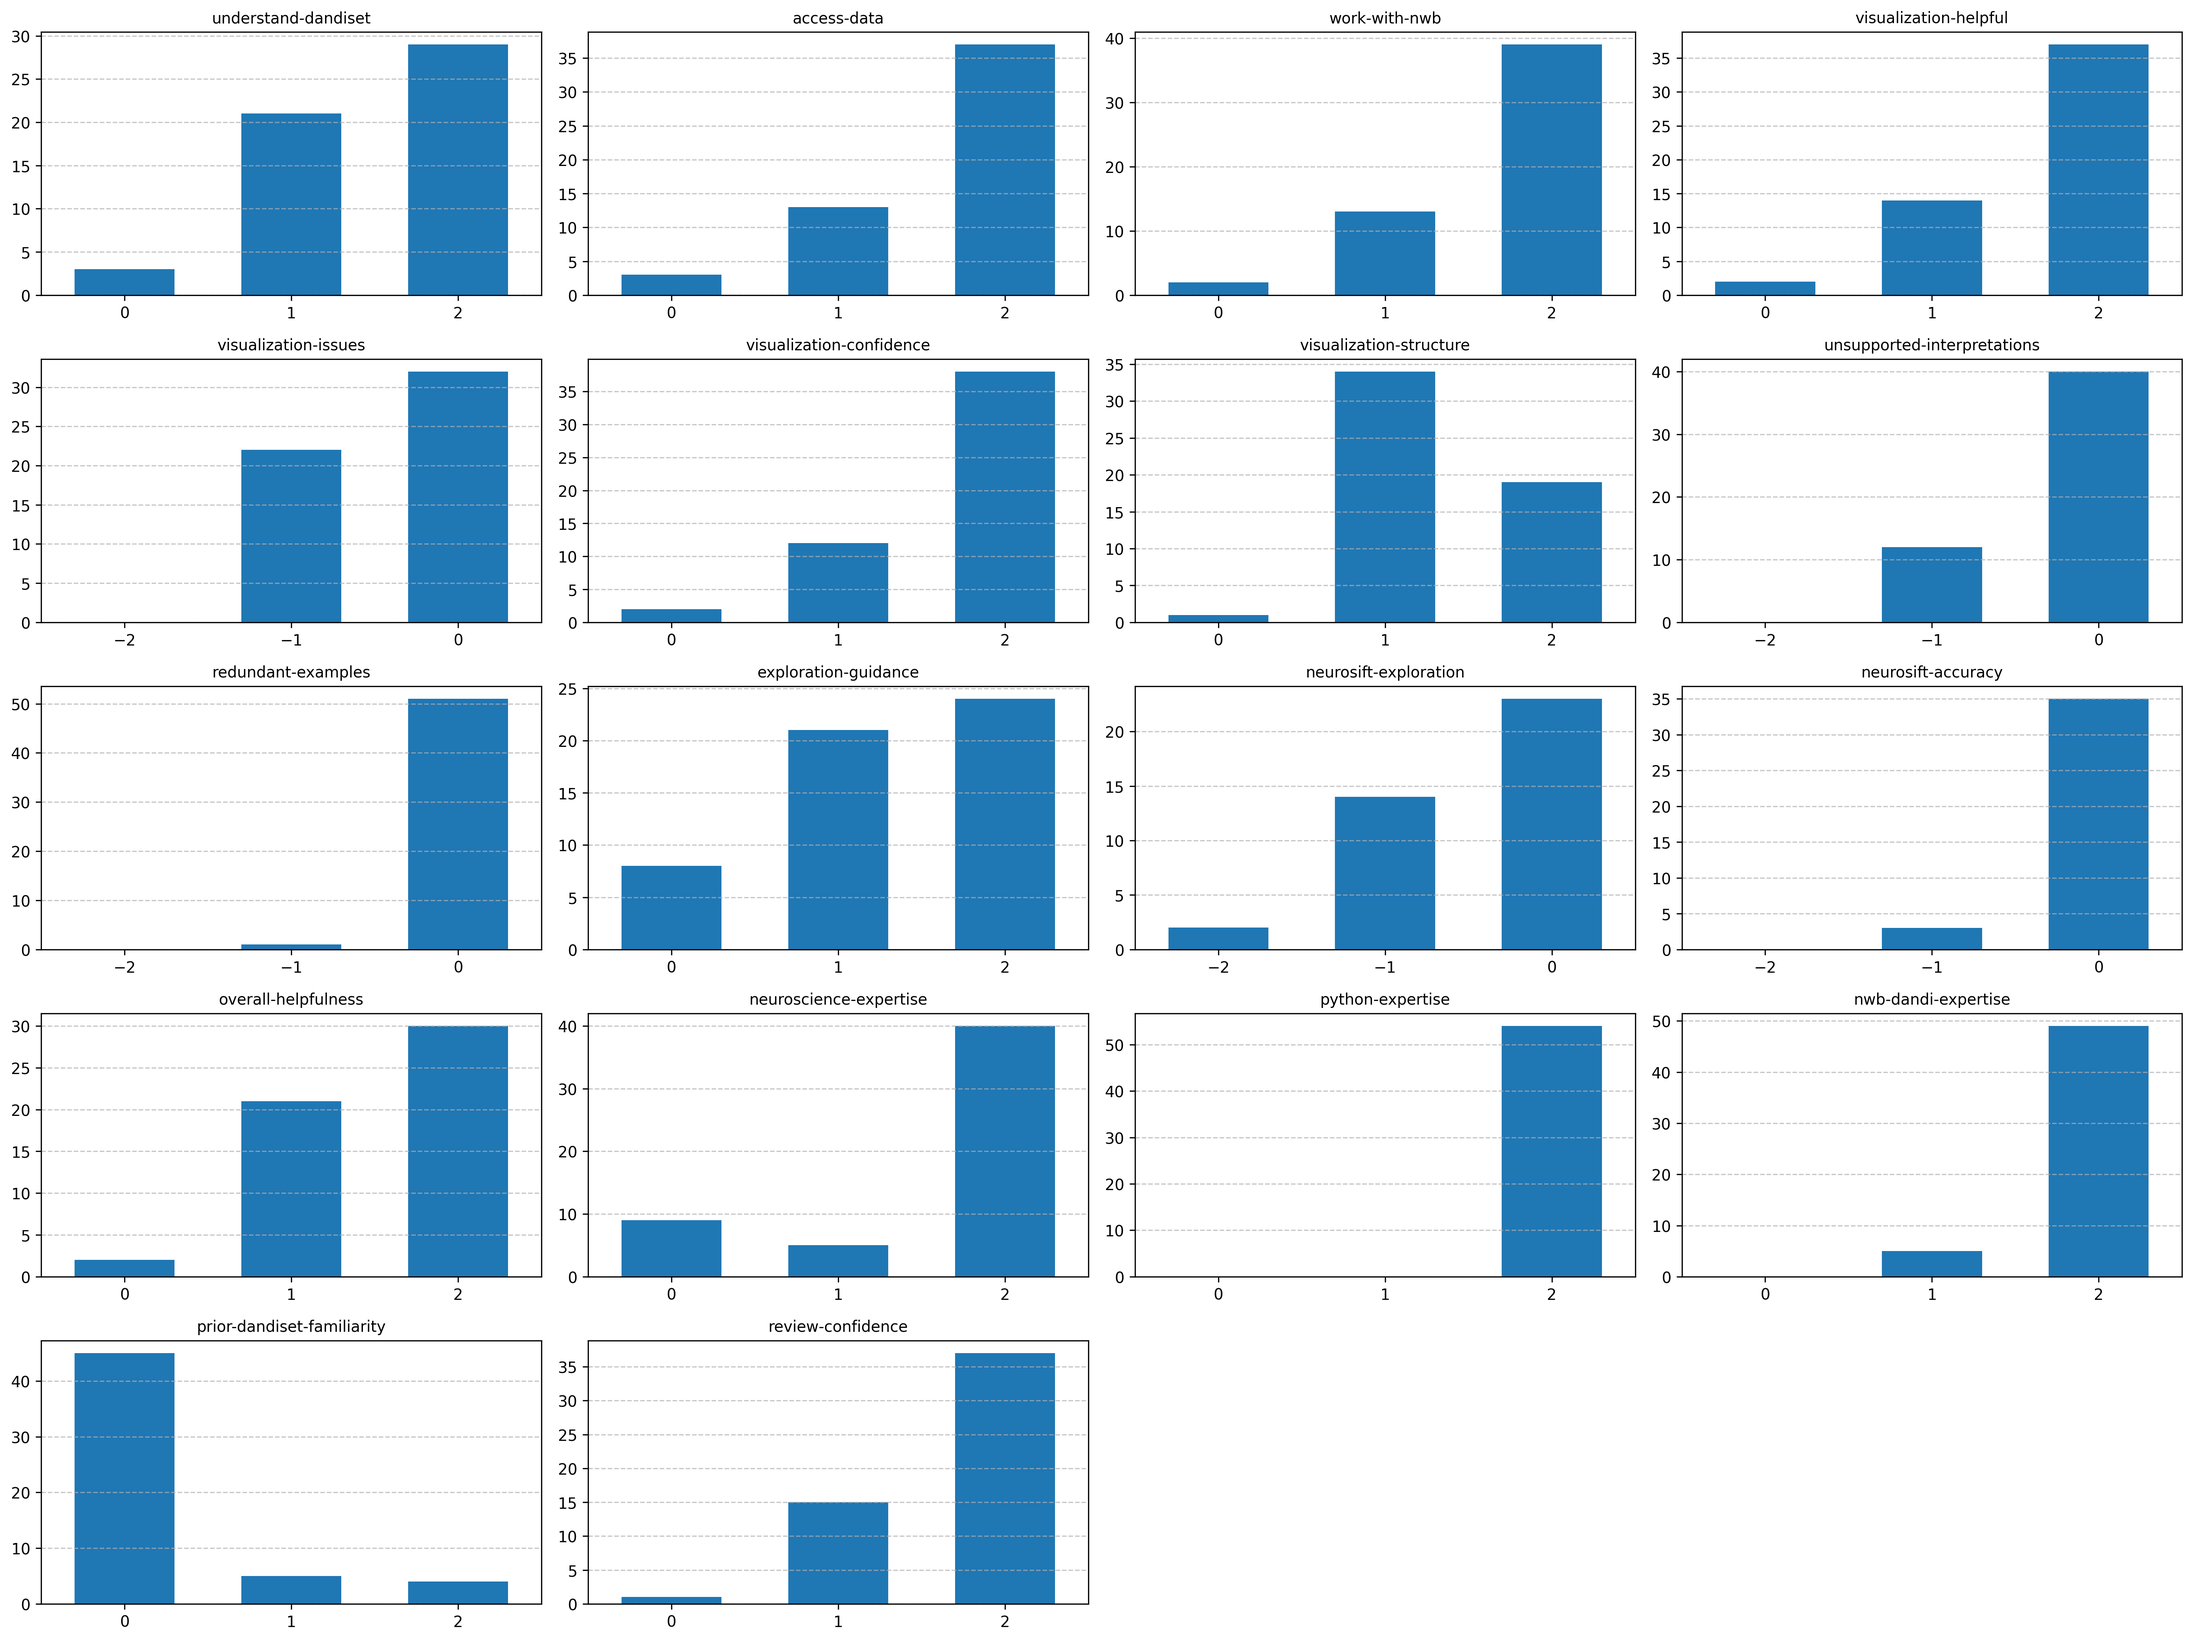
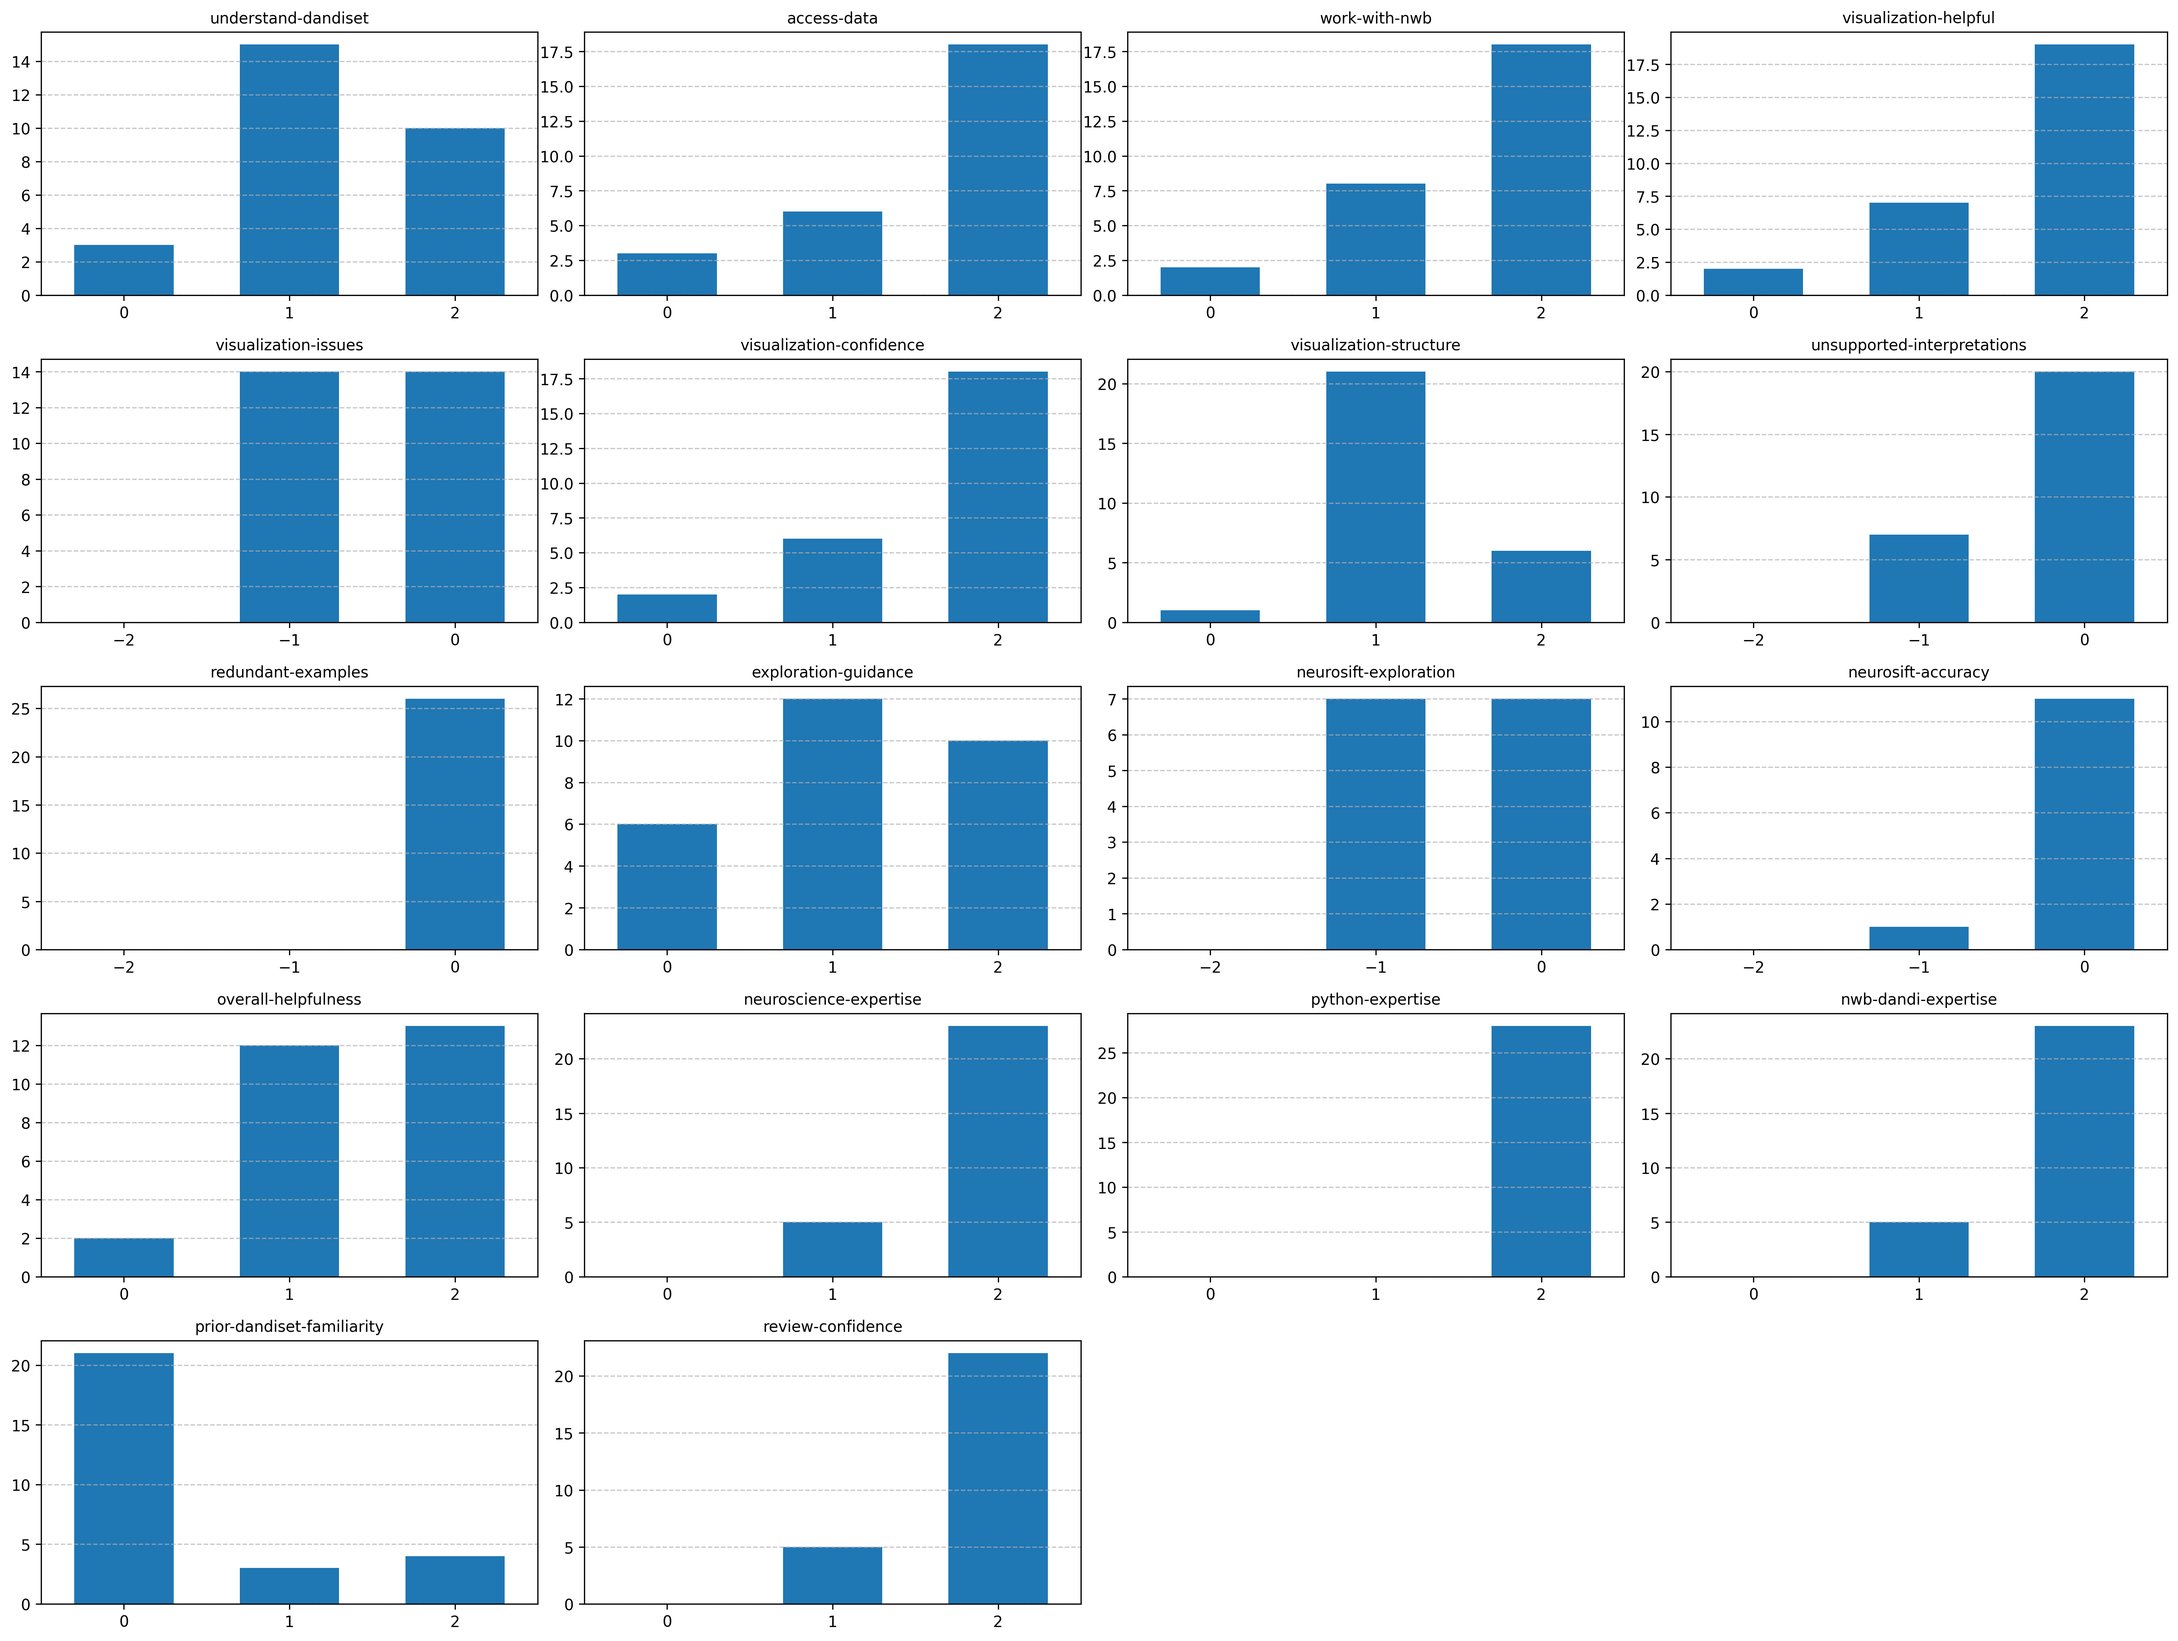
update reviews

diff --git a/scripts/convert_reviews_to_csv.py b/scripts/convert_reviews_to_csv.py
@@ -14,6 +14,11 @@ def extract_dandiset_id(notebook_uri):
         return match.group(1).zfill(6)
     return None
 
+def _is_author_email(email):
+    x = ['jmagland@', 'oruebel@', 'rly@', 'ben.dichter@']
+    # Check if the email belongs to the author
+    return any(email.startswith(prefix) for prefix in x)
+
 def main():
     # Read the JSON file
     with open('reviews-export-2025-07-02.json', 'r') as f:
@@ -26,7 +31,7 @@ def main():
     processed_reviews = []
     for review in reviews:
         if (review['review']['status'] == 'completed' and
-            review['reviewer_email'] != 'jmagland@flatironinstitute.org'):
+            not _is_author_email(review['reviewer_email'])):
             # Extract responses
             responses_dict = {}
             for response in review['review']['responses']:

diff --git a/scripts/review_hists.py b/scripts/review_hists.py
@@ -31,13 +31,18 @@ for idx, col in enumerate(valid_ordered_cols):
     ax = axes[idx]
     data = df[col].dropna()
     min_val = data.min()
+    max_val = data.max()
 
     if min_val < 0:
         bins = standard_bins["negative"]
         ticks = [-2, -1, 0]
-    else:
+    elif max_val > 0:
         bins = standard_bins["positive"]
         ticks = [0, 1, 2]
+    else:
+        # all responses were 0... this only happens for the redundant visualizations questions. Hard-code it as negative
+        bins = standard_bins["negative"]
+        ticks = [-2, -1, 0]
 
     ax.hist(data, bins=bins, align='mid', rwidth=0.6)
     ax.set_title(col, fontsize=10)
